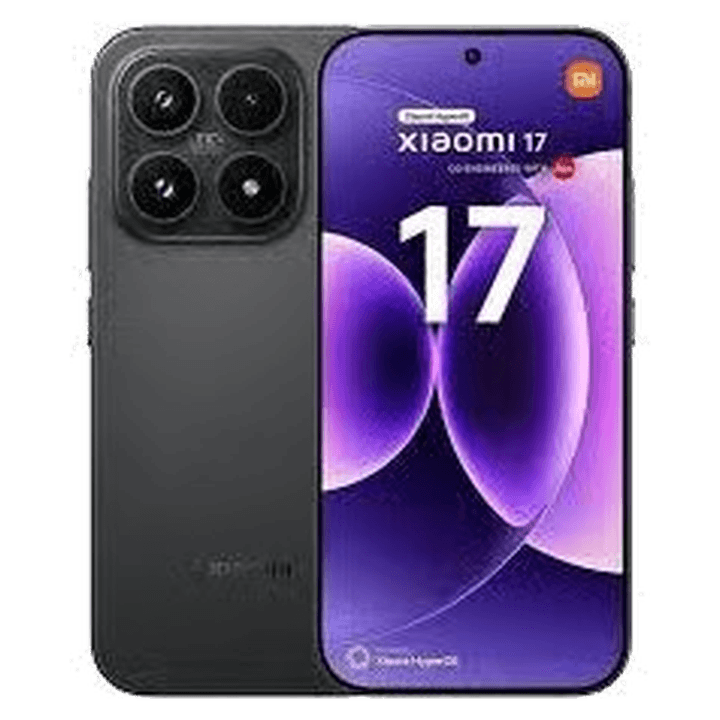
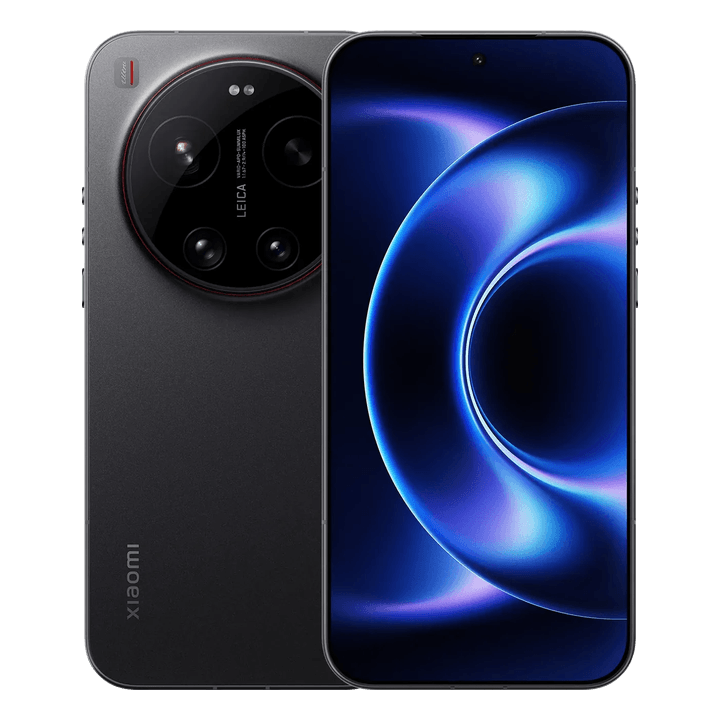
feat(images): packshots pour 13 variantes Xiaomi + OnePlus manquantes
- OnePlus (5) : 13 White, 15 Beige/Purple, 15R Black, Nord 5 White
- Xiaomi (8) : 13 Pro Black, 14 Black/Green, 14 Ultra Black, 14T Pro Blue,
  15 Ultra Green/White, 17 Ultra Black

Sources officielles (Amazon/OnePlus, Xiaomi Store/CDN), recadrées 720x720,
verifiees modele+couleur (modules Leica des Ultra). Xiaomi 17 Ultra Black
retire de la blocklist (remplace par le vrai Ultra). Termine le catalogue
hors 3 cas connus (16e White, S22U Bora Purple, S23U Pink).

diff --git a/src/lib/modelImages.ts b/src/lib/modelImages.ts
@@ -212,9 +212,11 @@ export const MODEL_IMAGES: Record<string, string> = {
   "google|pixel 9a 5g|purple": "/images/google-pixel-9a-5g-purple.png",
   "oneplus|13 5g|black": "/images/oneplus-13-5g-black.png",
   "oneplus|13 5g|blue": "/images/oneplus-13-5g-blue.png",
+  "oneplus|13 5g|white": "/images/oneplus-13-5g-white.png",
   "oneplus|13r 5g|silver": "/images/oneplus-13r-5g-silver.png",
   "oneplus|nord 5 5g|grey": "/images/oneplus-nord-5-5g-grey.png",
   "oneplus|nord 5 5g|ice blue": "/images/oneplus-nord-5-5g-ice-blue.png",
+  "oneplus|nord 5 5g|white": "/images/oneplus-nord-5-5g-white.png",
   "oneplus|nord ce 5 5g|black": "/images/oneplus-nord-ce-5-5g-black.png",
   "oneplus|nord ce 5 5g|white": "/images/oneplus-nord-ce-5-5g-white.png",
   "samsung|galaxy a54 5g|black": "/images/samsung-galaxy-a54-5g-black.png",
@@ -385,22 +387,29 @@ export const MODEL_IMAGES: Record<string, string> = {
   "xiaomi|13 5g|green": "/images/xiaomi-13-5g-green.png",
   "xiaomi|13 lite 5g|black": "/images/xiaomi-13-lite-5g-black.png",
   "xiaomi|13 lite 5g|blue": "/images/xiaomi-13-lite-5g-blue.png",
+  "xiaomi|13 pro 5g|black": "/images/xiaomi-13-pro-5g-black.png",
   "xiaomi|13 ultra 5g|black": "/images/xiaomi-13-ultra-5g-black.png",
   "xiaomi|13t 5g|black": "/images/xiaomi-13t-5g-black.png",
   "xiaomi|13t pro 5g|black": "/images/xiaomi-13t-pro-5g-black.png",
   "xiaomi|13t pro 5g|blue": "/images/xiaomi-13t-pro-5g-blue.png",
+  "xiaomi|14 5g|black": "/images/xiaomi-14-5g-black.png",
+  "xiaomi|14 5g|green": "/images/xiaomi-14-5g-green.png",
   "xiaomi|14 pro 5g|black": "/images/xiaomi-14-pro-5g-black.png",
+  "xiaomi|14 ultra 5g|black": "/images/xiaomi-14-ultra-5g-black.png",
   "xiaomi|14 ultra 5g|white": "/images/xiaomi-14-ultra-5g-white.png",
   "xiaomi|14t 5g|blue": "/images/xiaomi-14t-5g-blue.png",
   "xiaomi|14t 5g|grey": "/images/xiaomi-14t-5g-grey.png",
   "xiaomi|14t pro 5g|black": "/images/xiaomi-14t-pro-5g-black.png",
+  "xiaomi|14t pro 5g|blue": "/images/xiaomi-14t-pro-5g-blue.png",
   "xiaomi|14t pro 5g|grey": "/images/xiaomi-14t-pro-5g-grey.png",
   "xiaomi|15 5g|black": "/images/xiaomi-15-5g-black.png",
   "xiaomi|15 5g|green": "/images/xiaomi-15-5g-green.png",
   "xiaomi|15 5g|silver": "/images/xiaomi-15-5g-silver.png",
   "xiaomi|15 5g|white": "/images/xiaomi-15-5g-white.png",
   "xiaomi|15 ultra 5g|black": "/images/xiaomi-15-ultra-5g-black.png",
+  "xiaomi|15 ultra 5g|green": "/images/xiaomi-15-ultra-5g-green.png",
   "xiaomi|15 ultra 5g|silver": "/images/xiaomi-15-ultra-5g-silver.png",
+  "xiaomi|15 ultra 5g|white": "/images/xiaomi-15-ultra-5g-white.png",
   "xiaomi|15t 5g|black": "/images/xiaomi-15t-5g-black.png",
   "xiaomi|15t pro 5g|black": "/images/xiaomi-15t-pro-5g-black.png",
   "xiaomi|17 ultra 5g|white": "/images/xiaomi-17-ultra-5g-white.png",
@@ -430,7 +439,10 @@ export const MODEL_IMAGES: Record<string, string> = {
   "apple|iphone 17|green": "/images/apple-iphone-17-green.png",
   "google|pixel 9 5g|black": "/images/google-pixel-9-5g-black.png",
   "google|pixel 9 pro fold 5g|black": "/images/google-pixel-9-pro-fold-5g-black.png",
+  "oneplus|15 5g|beige": "/images/oneplus-15-5g-beige.png",
   "oneplus|15 5g|black": "/images/oneplus-15-5g-black.png",
+  "oneplus|15 5g|purple": "/images/oneplus-15-5g-purple.png",
+  "oneplus|15r 5g|black": "/images/oneplus-15r-5g-black.png",
   "samsung|galaxy s23 5g|beige": "/images/samsung-galaxy-s23-5g-beige.png",
   "samsung|galaxy s23 5g|black": "/images/samsung-galaxy-s23-5g-black.png",
   "samsung|galaxy s23 5g|green": "/images/samsung-galaxy-s23-5g-green.png",

diff --git a/src/lib/imageBlocklist.ts b/src/lib/imageBlocklist.ts
@@ -40,7 +40,6 @@ export const BLOCKED_IMAGE_FILES = new Set<string>([
   'samsung-galaxy-z-flip4-5g-rose-gold.png',  // montre un Flip6 argent, pas un Flip4 rose gold
   'samsung-galaxy-z-fold7-5g-green.png',      // render Fold3 (watermark OnLeaks), pas un Fold7
   'xiaomi-14-pro-5g-black.png',               // montre un Redmi (logo « Redmi 5G »), pas le Xiaomi 14 Pro
-  'xiaomi-17-ultra-5g-black.png',             // Xiaomi 17 standard, pas le 17 Ultra (module Leica)
   'apple-iphone-8-product-red.png',           // composite incluant un iPhone 8 PLUS (double caméra)
 ]);
 
